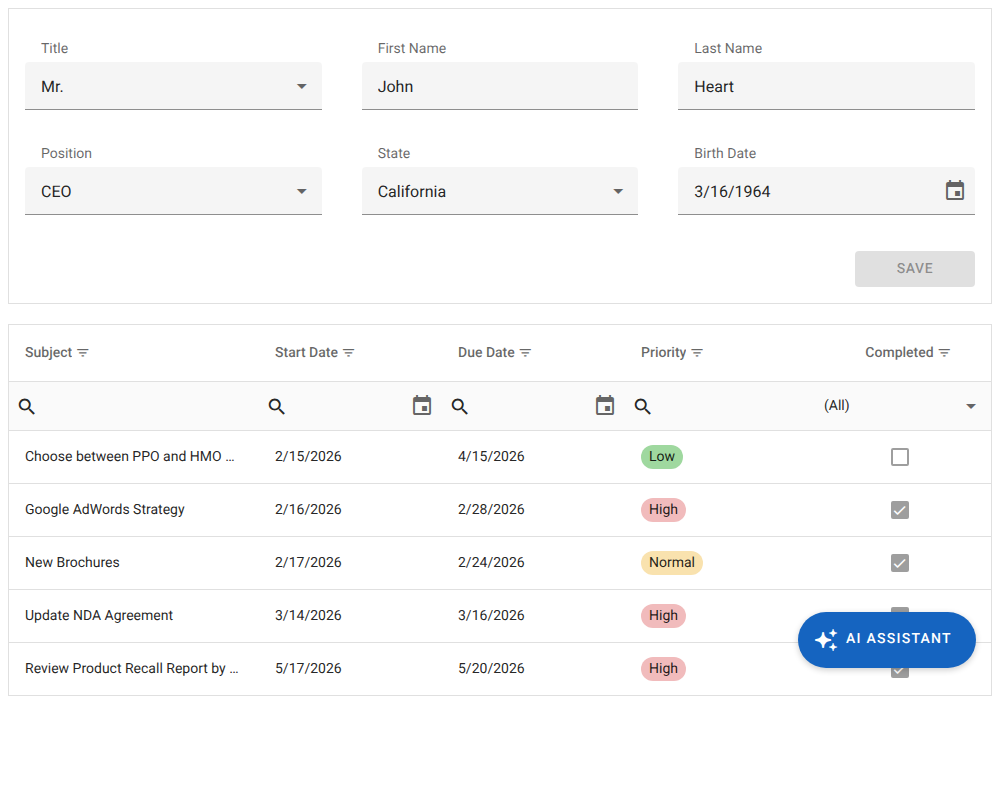
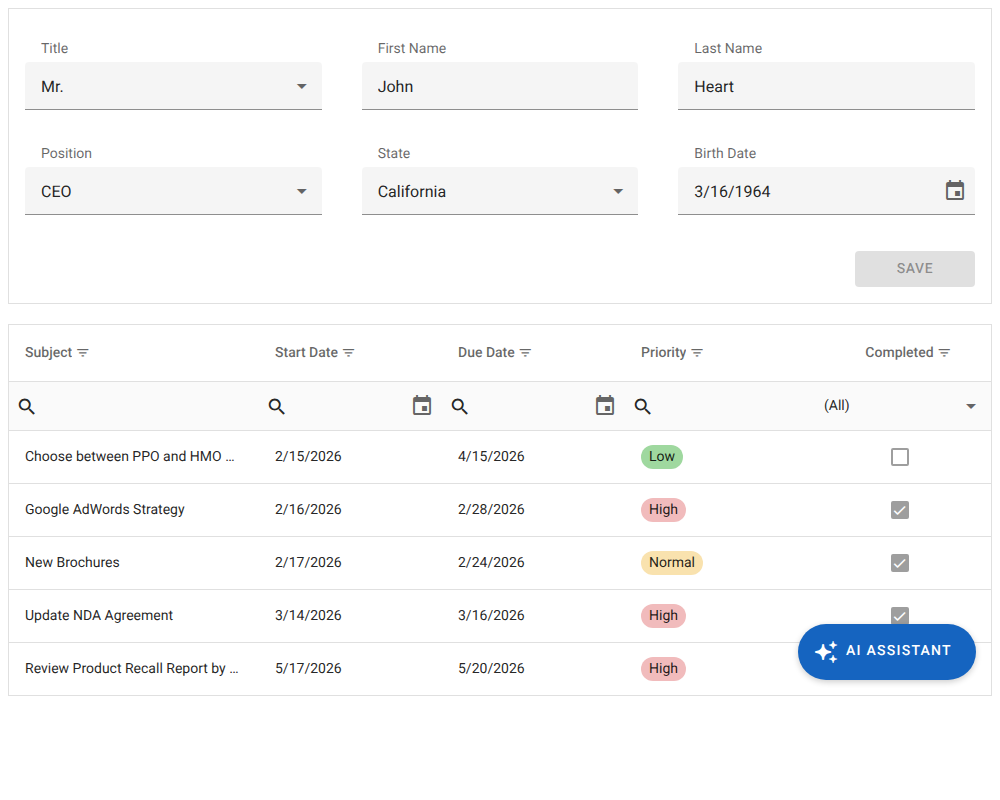
Demos: fix the VectorMap flag paths, stabilize Chat-PageLevelAIAssistant and switch React TreeList-FilterModes off in its settings

Changed region(s): [[0.775, 0.75, 0.992, 0.875]]

diff --git a/apps/demos/testing/skipped-tests.js b/apps/demos/testing/skipped-tests.js
@@ -10,9 +10,6 @@ export const skippedTests = {
   React: {
     // WebGL initialization error at the provider. There is no point in adding a mask
     Map: ['ProvidersAndTypes', 'Markers', 'Routes'],
-    // With templatesRenderAsynchronously the search highlighting nests spans once per column,
-    // which shifts the column widths. Remove once the grid_core search fix is merged.
-    TreeList: ['FilterModes'],
   },
   Vue: {
     // WebGL initialization error at the provider. There is no point in adding a mask

diff --git a/apps/demos/Demos/Chat/PageLevelAIAssistant/test-code.js b/apps/demos/Demos/Chat/PageLevelAIAssistant/test-code.js
@@ -1,0 +1,7 @@
+testUtils.importAnd(() => 'devextreme/ui/speed_dial_action/repaint_floating_action_button', () => DevExpress.ui.repaintFloatingActionButton, (repaintFloatingActionButton) => testUtils
+  .postponeUntilFound('#grid-container .dx-data-row')
+  .then(() => testUtils.postponeUntilFound('.dx-fa-button-icon'))
+  .then(() => {
+    // The button is placed by #grid-container once, and the grid grows when it renders its rows.
+    repaintFloatingActionButton();
+  }));

diff --git a/apps/demos/Demos/VectorMap/CustomAnnotations/jQuery/index.js b/apps/demos/Demos/VectorMap/CustomAnnotations/jQuery/index.js
@@ -8,7 +8,7 @@ $(() => {
         const { data } = annotation;
         const contentItems = ["<svg class='annotation'>",
           "<image href='../../../../images/flags/",
-          data.name.replace(/\s/, '').toLowerCase(), ".svg' width='60' height='40' />",
+          data.name.replace(/\s/, ''), ".svg' width='60' height='40' />",
           "<rect class='border' x='0' y='0' />",
           "<text x='70' y='25' class='state'/>",
           "<text x='0' y='60'>",
